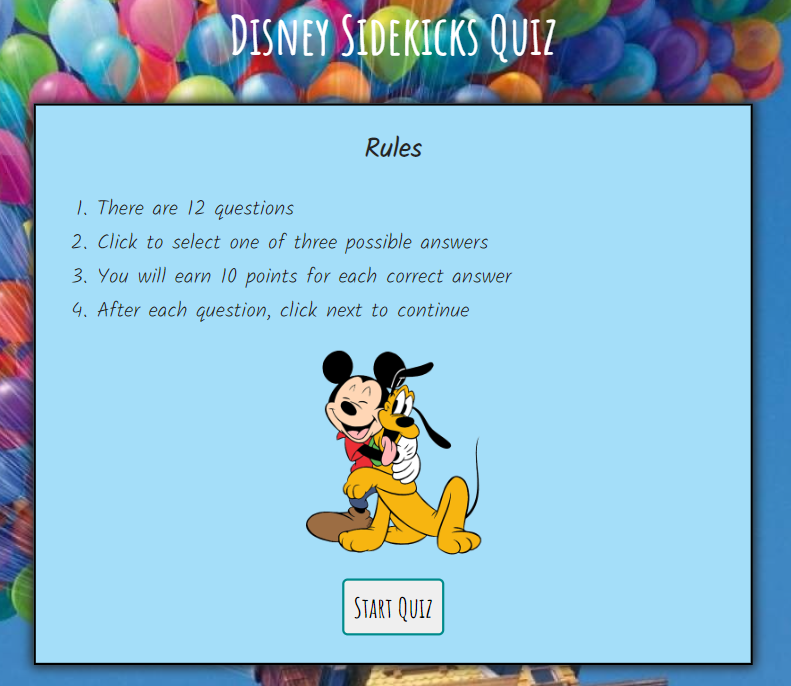
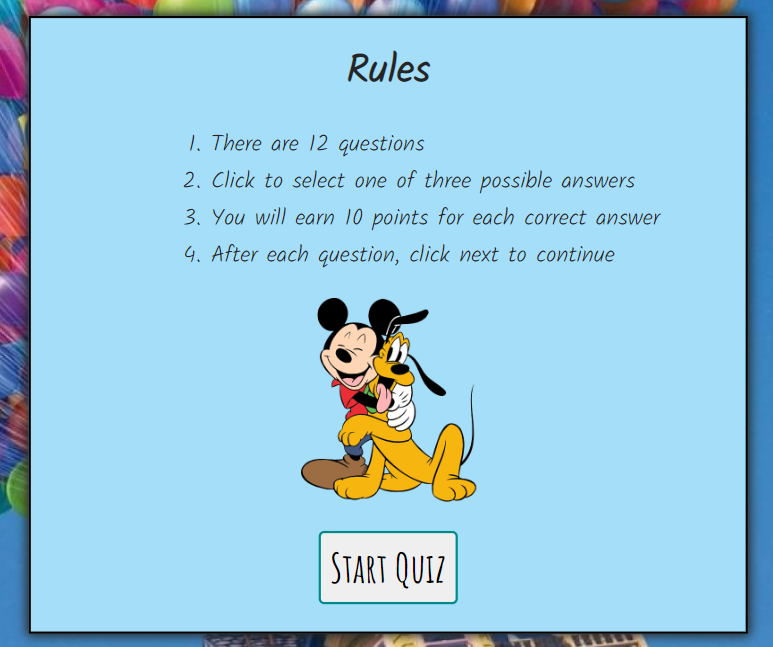
Add media query for devices larger than 768px for the rules container to move the rules more into the center on wider screens.

diff --git a/assets/css/style.css b/assets/css/style.css
@@ -132,8 +132,8 @@ h4 {
     background-color: red;
 }
 
-/* for medium tablet screen size from 800px wide and up */
-@media screen and (min-width: 800px) {
+/* for medium tablet screen size from 768px wide and up */
+@media screen and (min-width: 768px) {
 
     body {
         font-size: 1.9rem;
@@ -154,6 +154,12 @@ h4 {
         font-size: 1.7rem;
         max-width: 900px;
 
+    }
+
+    #rules {
+        text-align: left;
+        font-size: 1.3rem;
+        margin-left: 50px;
     }
 
 }

diff --git a/README.md b/README.md
@@ -17,6 +17,7 @@ Welcome to <a href="https://quiltingcode.github.io/disneysidekicks/" target="_bl
     *  [Colour Scheme](<#colour-scheme>)
 * [**Current Features**](<#current-features>)
     * [**Home Page**](<#home-page>)
+    * [**Rules Page**](<#rules-page>)
     * [**Quiz Page**](<#quiz-page>)
     * [**End Page**](<#end-page>)
 * [**Future Features**](<#future-features>)
@@ -89,10 +90,17 @@ In the end, I kept the 'Cinderella' blue and changed the background for a Disney
   
 ## Home Page
 
-At the top of the website, on all pages, is the main title of the website and the navigation bar underneath. This makes it easy to navigate back to the homepage or to the three other pages of the website easily from any page. The nav bar introduces the colour palette to the user and indicates which page you are currently browsing, by underlining the current page.
-The title header can also be clicked on as a navigation tool back to the home page.
+At the top of the website is the main title and an introduction to the quiz. The game logo is displayed here, and I've also used the same image for the site's Favicon in the browser. This image shows the most famous of all the Disney characters, Mickey Mouse, and his  trusty sidekick, Pluto.  Underneath the quiz introduction, there are two buttons to choose from. A 'Rules' button and a 'Start Quiz' button. If the user clicks the 'Rules' button, the quiz introduction text is replaced by a set of rules, and only the 'Start Quiz' button remains.  If the user clicks the 'Start Button', the quiz introduction and the two buttons disappear, and are replaced with the Quiz Page.
 
-![Navigation bar image](assets/readmeimages/nav.PNG)
+![Navigation bar image](assets/readmeimages/homepage.PNG)
+
+[Back to top](<#contents>)
+
+## Rules Page
+
+If the user is unsure of how to play a quiz game, at the bottom of the Home Page they can select the 'Rules' button which will show them a set of simple instructions. At the bottom of the Rules, or on the original Home Page if the user does not feel it is necessary to review the rules, there is a second button option to 'Start' the game.  
+
+![Navigation bar image](assets/readmeimages/rules.PNG)
 
 [Back to top](<#contents>)
 
@@ -101,7 +109,7 @@ The title header can also be clicked on as a navigation tool back to the home pa
 On the home page, I have written a brief introduction to the Andalucia region and included an inviting photo to encourage the user to read on. 
 
 
-![Welcome Section Image](assets/readmeimages/welcome.PNG)
+![Welcome Section Image](assets/readmeimages/quizpage.PNG)
 
 [Back to top](<#contents>)
 
